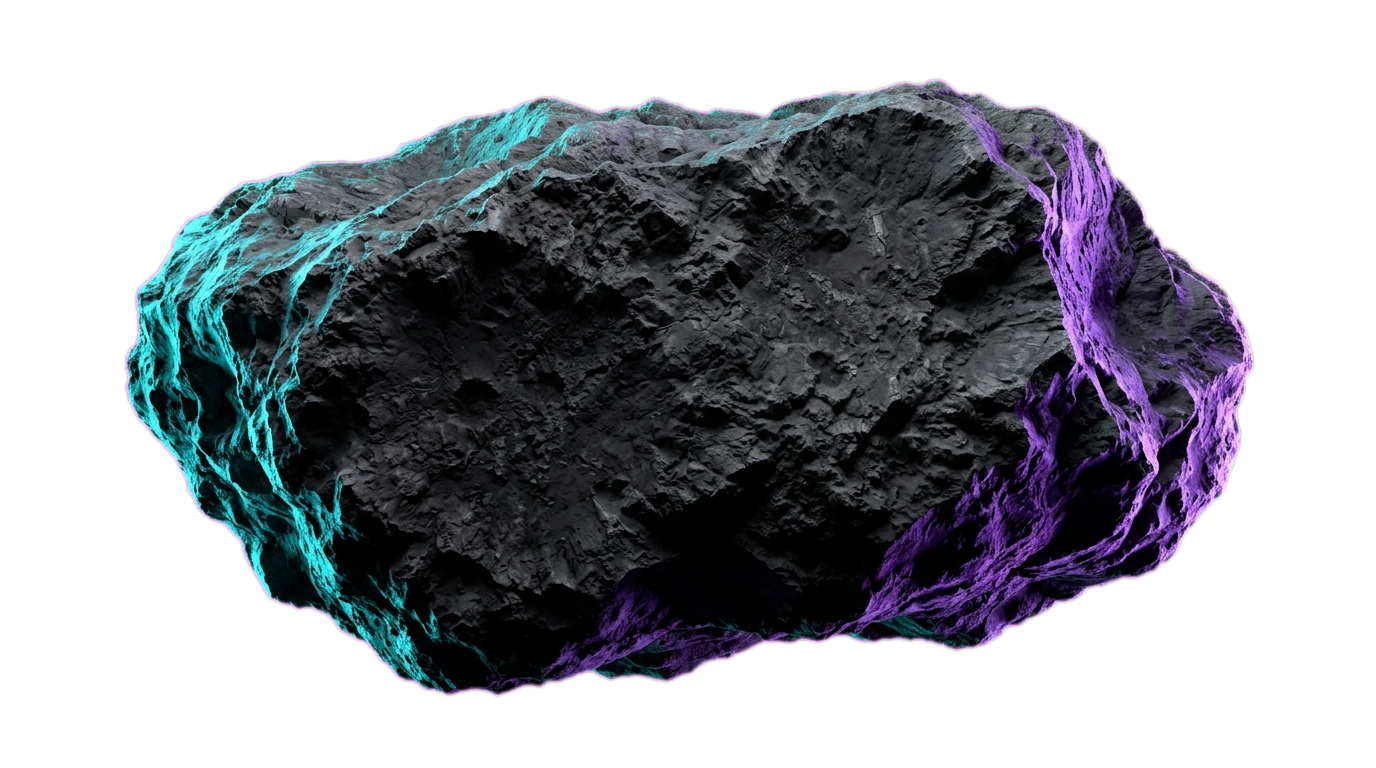
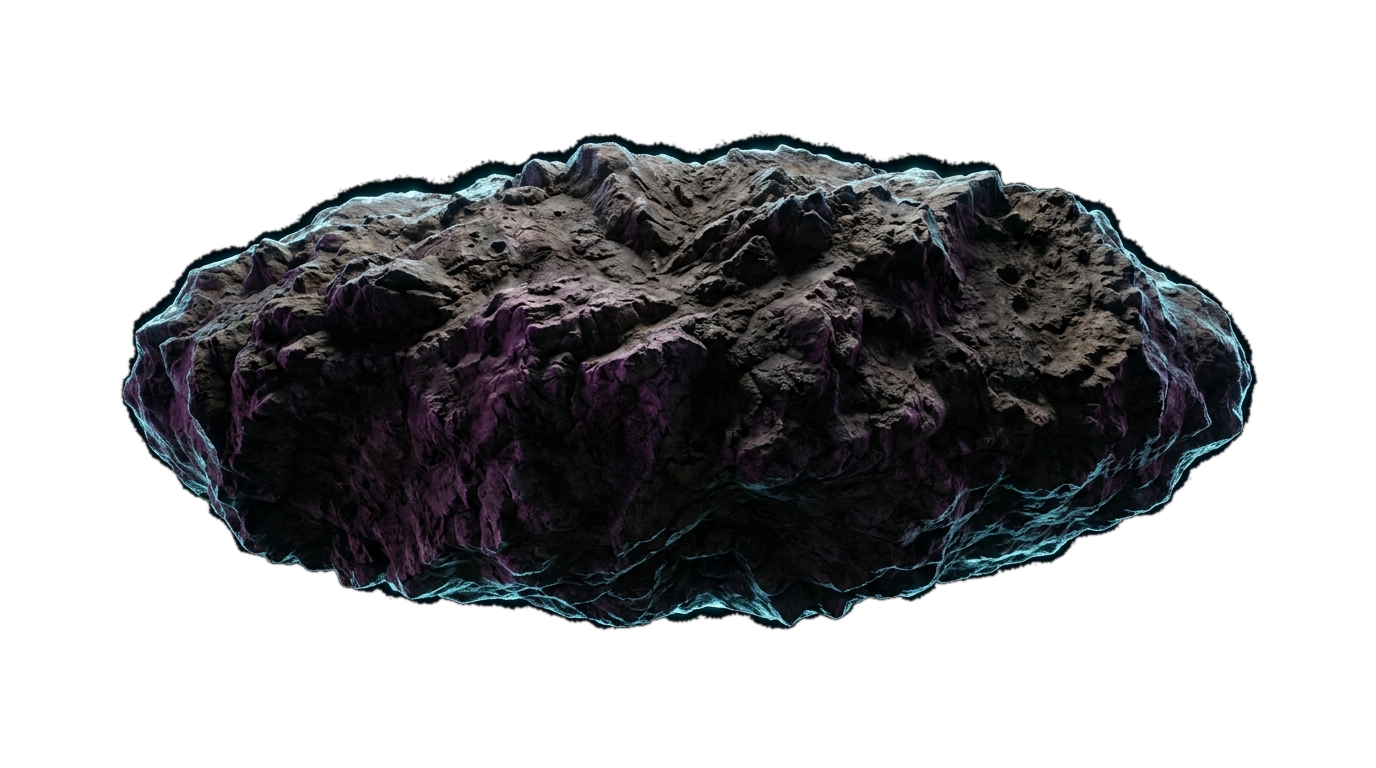
style: update asteroid rock styling to use object-fit contain and remove drop shadows

diff --git a/ui/src/styles/login.css b/ui/src/styles/login.css
@@ -9702,8 +9702,7 @@ select.et-select::-ms-expand,
 .asteroid-rock-img {
     width: 100%;
     height: 100%;
-    object-fit: fill;
-    filter: drop-shadow(0 0 16px rgba(168, 85, 247, 0.16)) drop-shadow(0 0 32px rgba(56, 189, 248, 0.12));
+    object-fit: contain;
     user-select: none;
     -webkit-user-drag: none;
 }
